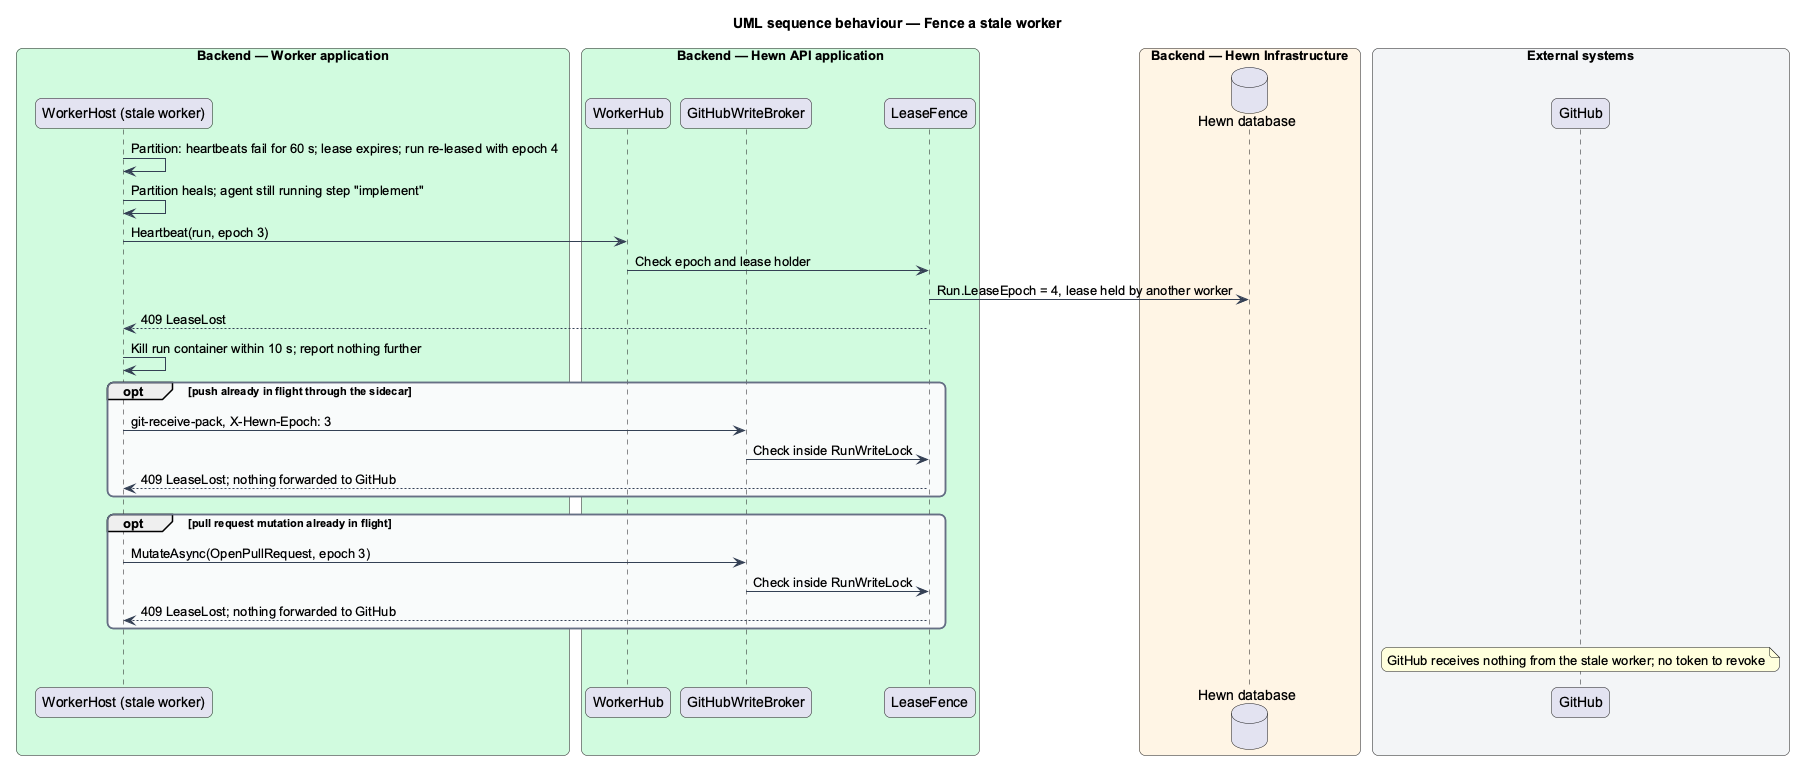
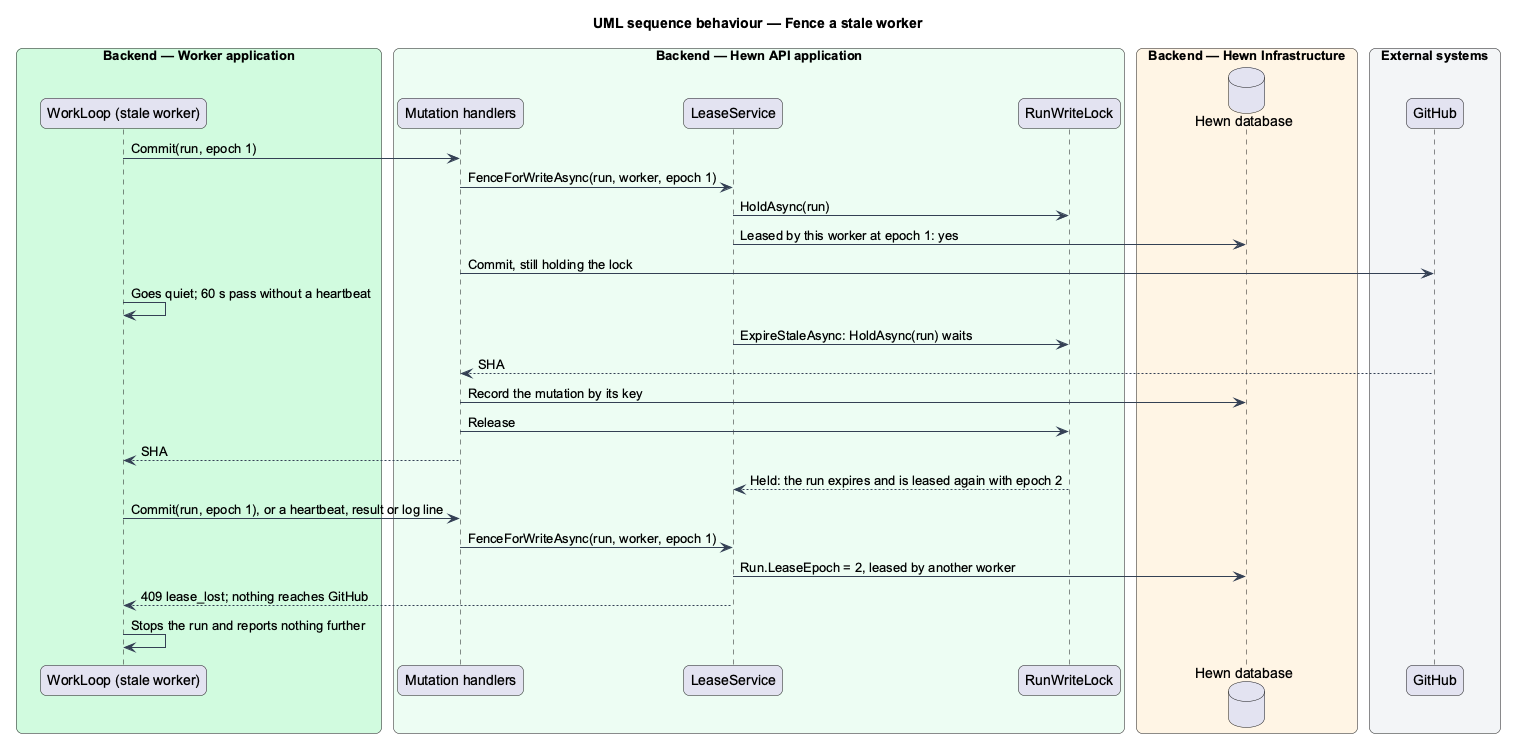
Record how runs recover after a worker or server crash
The worker-loop design describes the in-memory RunWriteLock, the
recovery log lines and why idempotency keys replace the branch
reconciler; both sequence diagrams are redrawn to match. ADR 0027,
ADR index and CHANGELOG.

Traces to: L2-050, L2-026

Claude-Session: https://claude.ai/code/session_01LjZiMqftK4BJirXGfFyqYe

diff --git a/docs/detailed-designs/agent-runtime/worker-loop/README.md b/docs/detailed-designs/agent-runtime/worker-loop/README.md
@@ -8,7 +8,7 @@ One container image serves both locations; configuration alone sets Local or Clo
 
 Work survives failure. A run checkpoints at the end of each completed step by committing to its branch and reporting the commit to the API; a checkpoint counts only once the API has recorded it. If a worker stops heartbeating for 60 seconds its lease expires and another worker resumes the run from the last recorded checkpoint, so no completed step runs twice. The API persists every direction, run and event before acknowledging it, and after a server restart each lease is either kept by its worker's next heartbeat or expires as above.
 
-A worker whose lease has expired may still be alive, cut off by a network partition or a long pause, and may still try to write. Such a worker is *fenced*. Workers hold no GitHub credential: every write to GitHub, whether a git push or a pull request operation, goes through the Hewn API's *write broker* ([Connect to GitHub](../../source-control/connect-to-github/README.md)), which checks the lease epoch and takes a per-run write lock before it touches GitHub. Lease reassignment takes the same lock, so a mutation either completes under the old epoch before the new lease is issued or is rejected after it; nothing interleaves. The stale worker can therefore neither report work nor change the repository. When a run resumes, the new worker first *reconciles* the branch with the recorded checkpoint, so a step that finished but whose report was lost is adopted rather than repeated, and partial work is discarded.
+A worker whose lease has expired may still be alive, cut off by a network partition or a long pause, and may still try to write. Such a worker is *fenced*. Workers hold no GitHub credential: every write to GitHub, whether a git push or a pull request operation, goes through the Hewn API's *write broker* ([Connect to GitHub](../../source-control/connect-to-github/README.md)), which checks the lease epoch and takes a per-run write lock before it touches GitHub. Lease reassignment takes the same lock, so a mutation either completes under the old epoch before the new lease is issued or is rejected after it; nothing interleaves. The stale worker can therefore neither report work nor change the repository. When a run resumes, the new worker starts after the recorded checkpoint, and every GitHub write is idempotent by a key naming its run and step, so a step that wrote but whose checkpoint report was lost gets its first result back instead of writing twice.
 
 Terms used in this design:
 
@@ -36,7 +36,7 @@ The slice spans the worker host, the lease service in the API and the Workers pa
 - **`WorkerPresence`** and **`WorkerPresenceWatcher`** — a worker is Offline once 60 seconds pass without hearing from it, which no request marks. The watcher sweeps every second; the sweep compares the online workers with the last sweep and sends `WorkersChanged` when they differ, so the change shows within a second.
 - **`LeaseService`** — grants a lease with one conditional update that moves the run from unleased to leased by this worker and the project's single lease slot from empty to this run, in the same statement; when another worker got there first the statement changes zero rows and the caller gets nothing. Each grant sets `Run.LeaseEpoch = LeaseEpoch + 1` and returns the epoch with the recorded checkpoint. It renews on heartbeat and expires leases with no heartbeat for 60 seconds, returning the run to the queue.
 - **`LeaseFence`** — API action filter on every worker endpoint and hub method that names a run: heartbeat, log lines, checkpoint reports, results, control acknowledgements, git proxy requests and GitHub mutation requests. It compares the request's epoch and worker with `Run.LeaseEpoch` and the current lease; a mismatch returns 409 `LeaseLost` and changes nothing. For git and mutation requests the check happens inside the run write lock, so it cannot be overtaken by a reassignment.
-- **`RunWriteLock`** — per-run mutual exclusion in the API, implemented as a row lock on the run (`SELECT … FOR UPDATE`) with a 30-second ceiling. `GitHubWriteBroker` holds it for the duration of one mutation or one push; `LeaseService.TryLeaseAsync` and `ExpireStaleAsync` hold it while they change the lease and bump the epoch. A reassignment therefore waits for an in-flight write to finish, and every write that arrives afterwards carries an epoch the fence rejects.
+- **`RunWriteLock`** — per-run mutual exclusion in the API, held in memory (Hewn runs one API process on SQLite; [ADR 0027](../../../adr/0027-github-writes-and-lease-changes-share-a-run-lock.md)) with a 30-second ceiling. `GitHubWriteBroker` holds it for the duration of one mutation or one push; `LeaseService.TryLeaseAsync` and `ExpireStaleAsync` hold it while they change the lease and bump the epoch. A reassignment therefore waits for an in-flight write to finish, and every write that arrives afterwards carries an epoch the fence rejects.
 - **`LeaseReaper`** — background service that runs the expiry sweep every 10 seconds and once at API start-up.
 - **`WorkersPage (Angular)`** — lists host, ID, location, version, status, current project, last heartbeat and connected time, leased workers first, then idle, then offline, the longest connected first. Owners also see New worker token and Revoke. It shows a placeholder while it first loads, "No workers yet" before any worker connects (with New worker token for an Owner), and "Workers couldn’t load" with Try again when the list can't be read; a later failed read keeps the rows shown.
 
@@ -95,15 +95,15 @@ A checkpoint is a pushed commit plus the API's record of it (L2-050 AC3). The pu
 
 ![Sequence diagram: commit and record a checkpoint](diagrams/sequence-checkpoint.png)
 
-### Behaviour — expire a lease, reconcile and resume
+### Behaviour — expire a lease and resume
 
-After 60 seconds without heartbeats the lease expires and another worker leases the run atomically with a new epoch (L2-026 AC3). Before its first step the new worker reconciles the branch with the recorded checkpoint, so a completed-but-unreported step is adopted and partial work is discarded; no completed step runs twice (L2-050 AC3). The same sweep runs at API start-up (L2-050 AC2).
+After 60 seconds without heartbeats the lease expires, under the run's write lock, and the run log says so; another worker leases the run atomically with a new epoch, and the log names it and the step it resumes after (L2-026 AC3). It starts after the recorded checkpoint, and a write it repeats from an unreported step returns the first result by its idempotency key, so no completed step runs twice (L2-050 AC3). The same sweep runs at API start-up, so after a restart each lease is kept by its worker's next heartbeat or expires (L2-050 AC2).
 
-![Sequence diagram: expire a lease, reconcile and resume](diagrams/sequence-expire-and-resume.png)
+![Sequence diagram: expire a lease and resume](diagrams/sequence-expire-and-resume.png)
 
 ### Behaviour — fence a stale worker
 
-A worker cut off by a partition keeps running until it learns its lease is gone. It holds no GitHub credential, so every write it attempts reaches the broker carrying epoch 3; the API now holds epoch 4, so the broker rejects each one inside the run write lock and forwards nothing to GitHub. On the first `LeaseLost` the worker stops the run container.
+A write that passed the fence holds the run's write lock until it is recorded, so the expiry waits for it. Every request the stale worker makes afterwards carries epoch 1 while the run holds epoch 2: the fence answers 409 `lease_lost`, nothing reaches GitHub, and the worker stops the run.
 
 ![Sequence diagram: fence a stale worker](diagrams/sequence-fence-stale-worker.png)
 
@@ -133,7 +133,7 @@ Journey 1, part 2 built the loop, leases and fencing that L2-004 needs.
 - **Failure text is redacted** before it is stored (`SecretRedactor`).
 - **The Workers page (journey 8)** lists each worker's host, location, version, status, what it works on and its
   last heartbeat, from `GET /api/workers`.
-- **Not built yet:** issued tokens, Revoke, the git sidecar, `CheckpointReconciler` and the `RunWriteLock`.
+- **Not built yet:** issued tokens and Revoke (built in journey 24), and the `RunWriteLock` (journey 26). The git sidecar and `CheckpointReconciler` are not built: see journey 26 below.
 
 ## Decisions made while running workers locally or in the cloud
 
@@ -153,3 +153,22 @@ Journey 23 built L2-026 AC1, AC2 and AC5 and L2-027 AC1.
   worker shows within 2 seconds. The 5-second refresh stays for heartbeats.
 - **Isolation per run** (L2-042) is started by the work loop: see
   [Agent isolation](../agent-isolation/README.md) and [ADR 0025](../../../adr/0025-runs-are-isolated-in-the-worker-by-a-proxy-and-tool-gates.md).
+
+## Decisions made while continuing after a crash
+
+Journey 26 built L2-050 and L2-026 AC3 end to end ([ADR 0027](../../../adr/0027-github-writes-and-lease-changes-share-a-run-lock.md)).
+
+- **`RunWriteLock` is in memory.** `LeaseService.FenceForWriteAsync` takes it before the fence check, and the
+  commit, pull request, merge and branch-protection handlers keep it until the write is recorded.
+  `TryLeaseAsync` and `ExpireStaleAsync` take it for each run they change, so an expiry waits for a write in
+  flight and every later write from the old worker is fenced out.
+- **The run log shows recovery.** The expiry logs "Lease expired: no heartbeat from {worker} for 60 seconds;
+  queued again after step N", and a lease of a run leased before logs "Resumed by {worker} after step N". The
+  Owner follows a crash on the project page without a new screen.
+- **No branch reconciler.** Workers write to GitHub only through the API's mutation calls, one commit each, so a
+  branch never holds part of a step. A step repeated after a lost checkpoint report sends the same idempotency
+  key, `{run}/{step}/…`, and gets the first SHA back. The git sidecar, `--force-with-lease` and
+  `CheckpointReconciler` described above are needed only if workers push with git, so they are left out.
+- **Persist before acknowledging** was already true: every handler saves before it answers, and events are
+  published after `SaveChangesAsync`. Tests restart the API on the same database file to prove it (L2-050 AC1,
+  AC2).

diff --git a/docs/adr/0027-github-writes-and-lease-changes-share-a-run-lock.md b/docs/adr/0027-github-writes-and-lease-changes-share-a-run-lock.md
@@ -1,0 +1,34 @@
+# 0027. GitHub writes and lease changes share a run lock
+
+- **Status:** Accepted
+- **Date:** 2026-11-10
+- **Requirements:** L2-050, L2-026
+
+## Context
+
+L2-050 AC3 asks that a resumed run continue from its last checkpoint with no completed step run twice, and the
+worker-loop design adds that a stale worker cannot write. Every worker request is fenced: the API compares the
+request's worker and epoch with the run's lease. But a GitHub write fenced its lease and then called GitHub, so in
+between the lease could expire and be granted to another worker, and the old worker's write still landed. The
+design called for a `RunWriteLock` as a row lock (`SELECT … FOR UPDATE`), which SQLite does not have
+([ADR 0005](0005-leases-on-sqlite.md)). It also called for a git sidecar and a `CheckpointReconciler`, for workers
+that push with git.
+
+## Decision
+
+- **An in-memory lock per run.** `RunWriteLock` keeps one semaphore per run, with a 30-second ceiling. A GitHub
+  write takes it before its fence check and keeps it until the write is recorded. Granting a lease and expiring
+  one take it for the run they change.
+- **Expiry loads, logs and saves each run under the lock.** It replaces the single bulk update, so the Owner sees
+  each expiry and each resume in the run log.
+- **Idempotency keys instead of a reconciler.** Workers write to GitHub only through the API, one commit per
+  call, keyed by run and step. A repeated step gets its first result back, and there is no partial branch state
+  to repair.
+
+## Consequences
+
+- A stale worker's writes either finish before the reassignment or are refused after it; none interleave.
+- An expiry can wait up to 30 seconds behind a slow GitHub call. A lease that a worker renews in that time is kept.
+- The lock only works within one API process. Running more than one would need a database lock (PostgreSQL's
+  `FOR UPDATE`) or a lease table update in the same transaction.
+- If workers ever push with git, the sidecar and reconciler come back.

diff --git a/CHANGELOG.md b/CHANGELOG.md
@@ -14,6 +14,10 @@ and this project adheres to [Semantic Versioning](https://semver.org/spec/v2.0.0
 
 ### Added
 
+- Continue after a worker or server crash (journey 26, L2-050, L2-026): a GitHub write holds its run's write lock
+  from the fence check to its record, and leases are granted and expired under the same lock, so a stale worker
+  can't write after its lease moves. The run log says when a lease expires and which worker resumes after which
+  step. Tests kill a worker mid-run and restart the API on the same database.
 - Inspect worker activity (journey 25, L2-026, L2-031): Workers is told within a second when a worker goes Offline
   after 60 seconds without a heartbeat, or comes back. `WorkerPresenceWatcher` sweeps every second
   (`Hewn:Workers:PresenceWatcherEnabled`). The page shows its loading, empty and error states as the mocks do, offers

diff --git a/docs/adr/README.md b/docs/adr/README.md
@@ -30,3 +30,4 @@ Read the ADRs that cover an area before changing it. New ADRs take the next numb
 | [0024](0024-installation-tokens-are-limited-to-one-repository.md) | Installation tokens are limited to one repository; creating one only administers | Accepted |
 | [0025](0025-runs-are-isolated-in-the-worker-by-a-proxy-and-tool-gates.md) | Runs are isolated in the worker by an egress proxy, tool gates and a command sandbox | Accepted |
 | [0026](0026-worker-tokens-are-hashed-and-revoked-through-the-control-poll.md) | Worker tokens are hashed, name their worker, and are revoked through the control poll | Accepted |
+| [0027](0027-github-writes-and-lease-changes-share-a-run-lock.md) | GitHub writes and lease changes share a run lock | Accepted |
